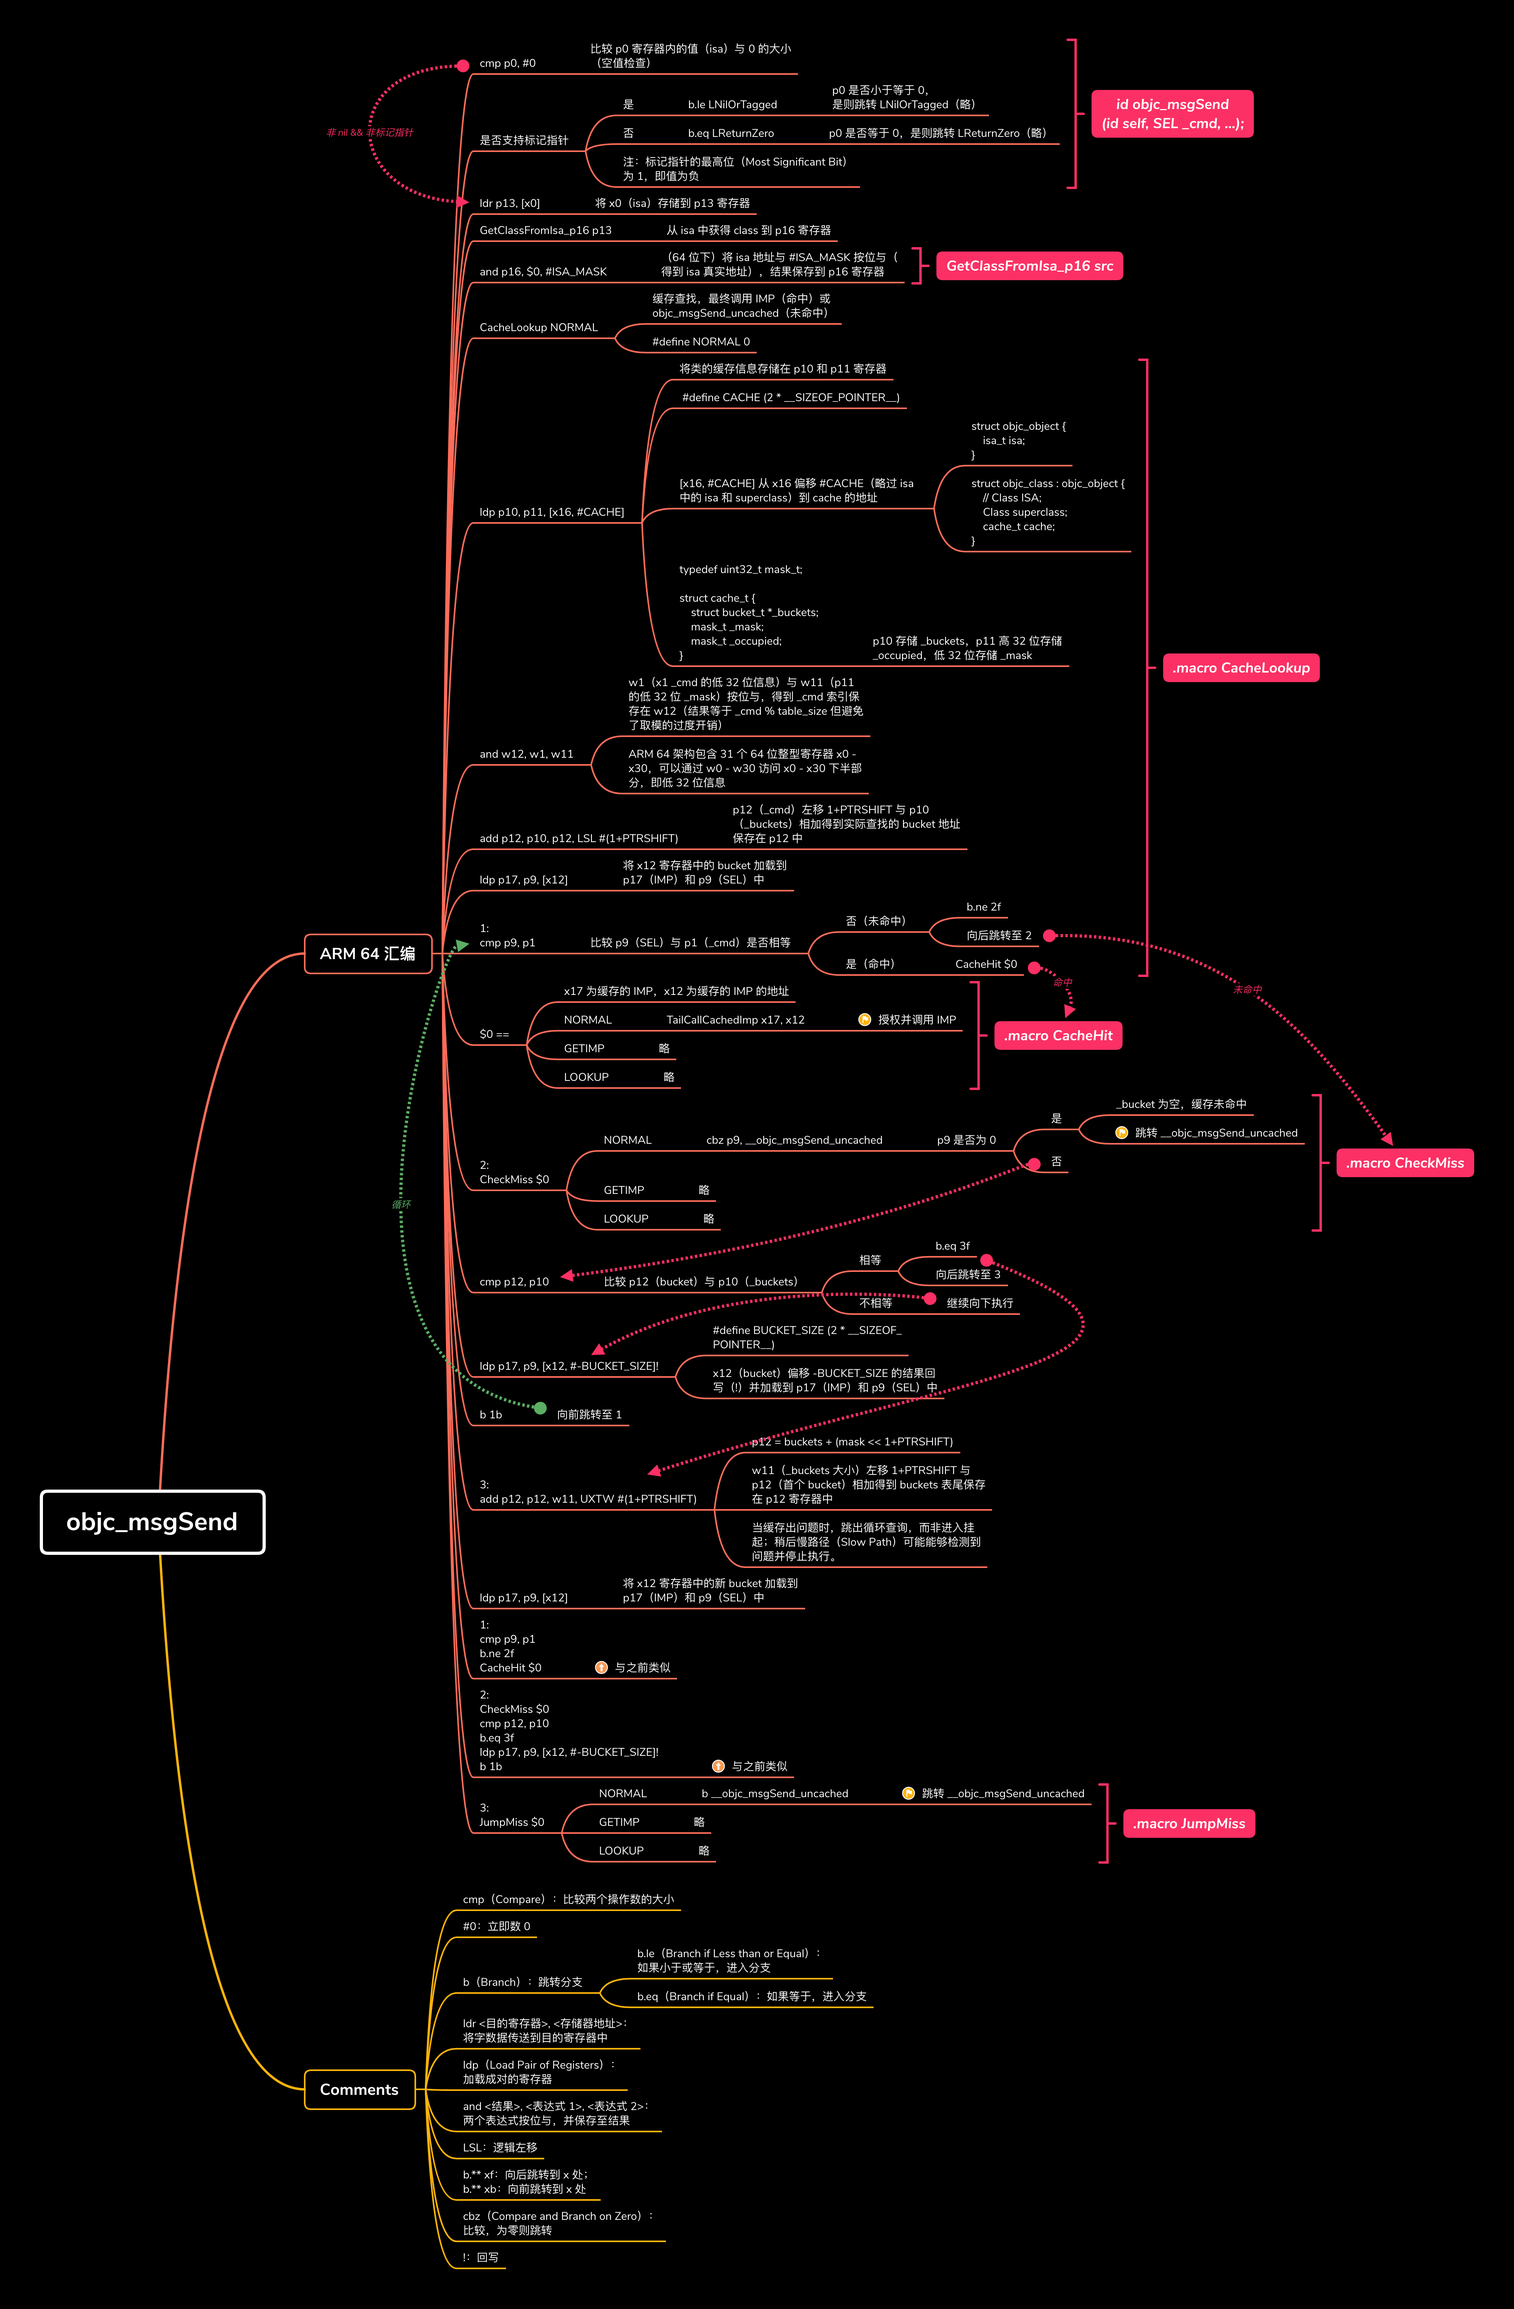
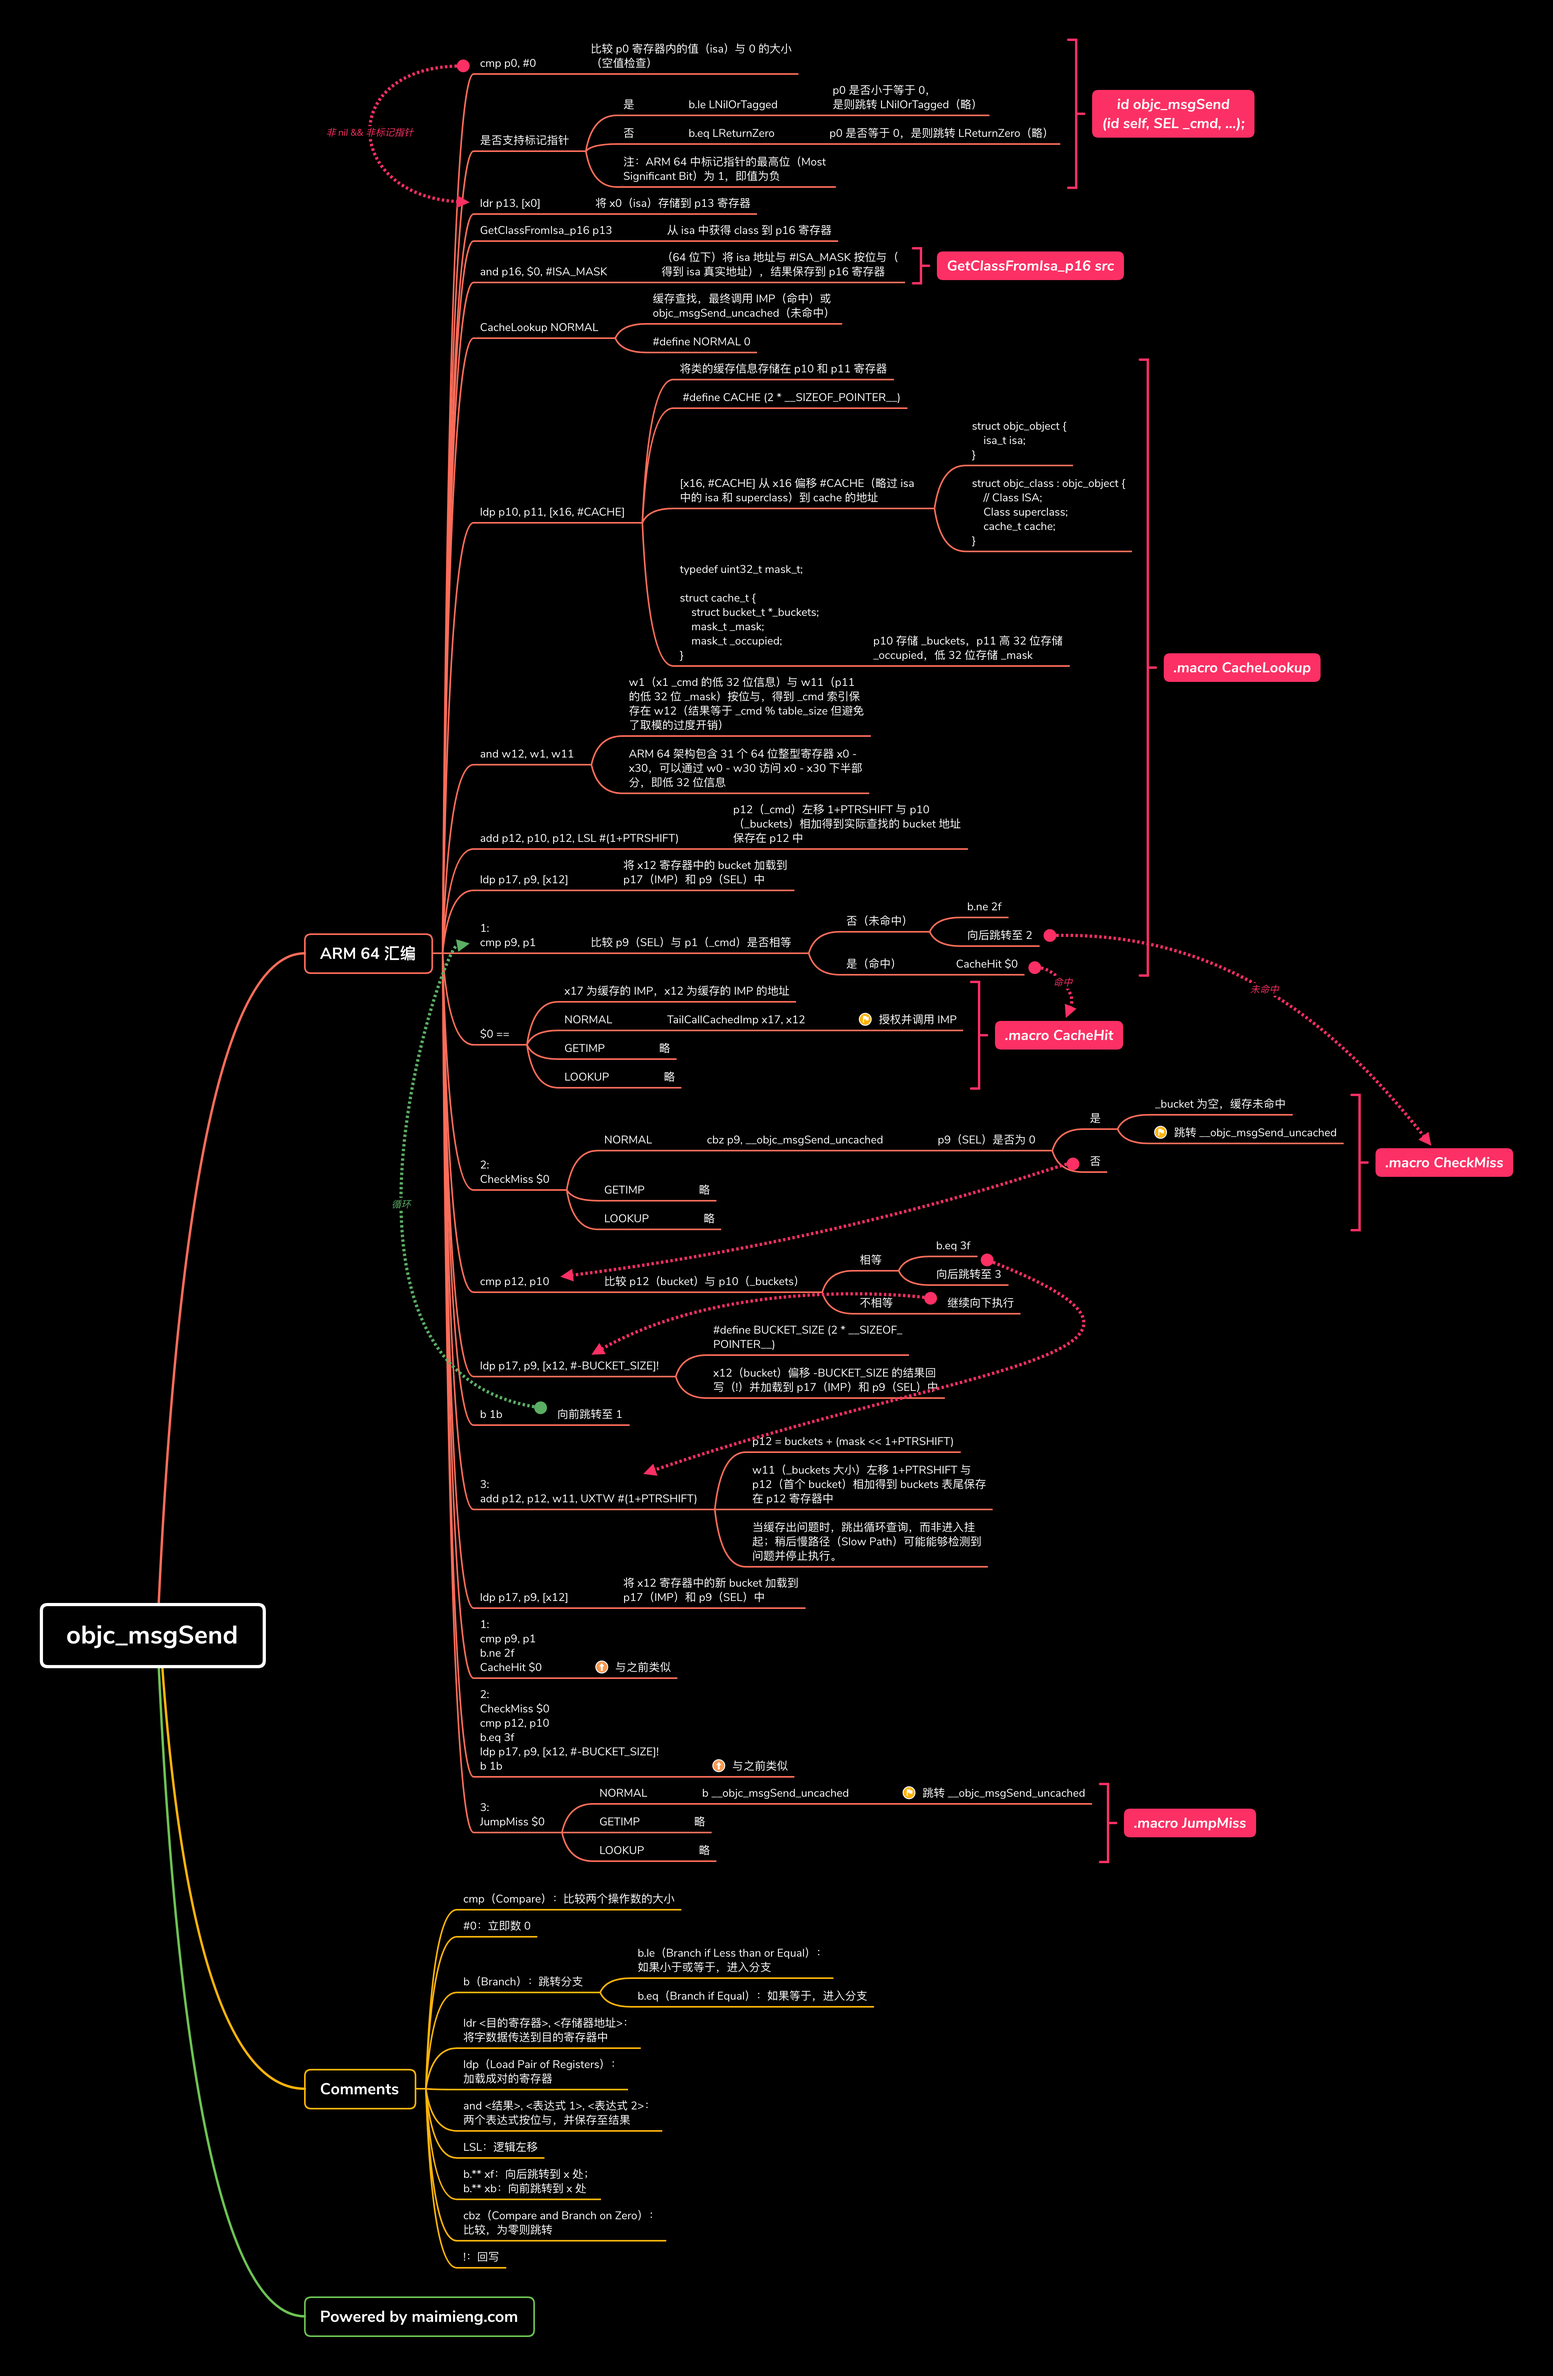
Build

diff --git a/posts/2019/objc_msgsend/index.html b/posts/2019/objc_msgsend/index.html
@@ -276,25 +276,26 @@ _objc_debug_taggedpointer_ext_classes:
 	UNWIND _objc_msgSend, NoFrame
 
     // cmp：比较两个操作数的大小；#0：立即数 0
-    // 即比较 p0 寄存器内的值与 0 的大小（空值检查）
+    // 比较 p0 寄存器内的值（isa）与 0 的大小（空值检查）
 	cmp	p0, #0			// nil check and tagged pointer check 空值检查和标记指针检查
 #if SUPPORT_TAGGED_POINTERS // 若支持标记指针
+    // ARM 64 中标记指针的最高位（Most Significant Bit）为 1，即值为负
     // b.le（Branch if Less than or Equal）：如果小于或等于，进入分支
-    // 跳转 LNilOrTagged；ARM 64 通过设置最高位 1 为标记指针，因此为负
+    // p0 是否小于等于 0，是则跳转 LNilOrTagged
 	b.le	LNilOrTagged		//  (MSB tagged pointer looks negative 标记指针最高位（Most Significant Bit）为负)
 #else // 若不支持标记指针
     // b.eq（Branch if Equal）：如果等于，进入分支
-    // 跳转 LReturnZero
+    // p0 是否等于 0，是则跳转 LReturnZero
 	b.eq	LReturnZero
 #endif
     // ldr &lt;目的寄存器&gt;, &lt;存储器地址&gt;：将字数据传送到目的寄存器中
-    // 将 x0（第一个参数 self，即 isa）存储到 p13 寄存器
+    // 将 x0（isa）存储到 p13 寄存器
 	ldr	p13, [x0]		// p13 = isa
-    // 从 isa 中获得类到 p16 ➡
+    // 从 isa 中获得 class 到 p16 寄存器 ➡
 	GetClassFromIsa_p16 p13		// p16 = class
 LGetIsaDone:
     // 缓存查找 ➡
-	CacheLookup NORMAL		// calls imp or objc_msgSend_uncached 调用 imp 或 objc_msgSend_uncached
+	CacheLookup NORMAL		// calls imp or objc_msgSend_uncached 缓存查找，最终调用 IMP（命中）或 objc_msgSend_uncached（未命中）
 
 #if SUPPORT_TAGGED_POINTERS
 LNilOrTagged:
@@ -354,7 +355,7 @@ _objc_indexed_classes:
 
 .macro GetClassFromIsa_p16 /* src */
 
-#if SUPPORT_INDEXED_ISA
+#if SUPPORT_INDEXED_ISA // 如果支持索引的 isa
 	// Indexed isa
 	mov	p16, $0			// optimistically set dst = src
 	tbz	p16, #ISA_INDEX_IS_NPI_BIT, 1f	// done if not non-pointer isa
@@ -366,9 +367,9 @@ _objc_indexed_classes:
 1:
 
 // ➡
-#elif __LP64__ // 如果 64 位
+#elif __LP64__ // 如果在 64 位下
     // and &lt;结果&gt;, &lt;表达式 1&gt;, &lt;表达式 2&gt;：两个表达式按位与，并保存至结果
-    // 将 isa 地址与 #ISA_MASK 按位与，结果保存到 p16 寄存器
+    // （64 位下）将 isa 地址与 #ISA_MASK 按位与（得到 isa 真实地址），结果保存到 p16 寄存器
 	// 64-bit packed isa
 	and	p16, $0, #ISA_MASK
 
@@ -432,7 +433,7 @@ _objc_indexed_classes:
 	cbz	p9, LGetImpMiss
 .elseif $0 == NORMAL
     // cbz（Compare and Branch on Zero）：比较，为零则跳转
-    //
+    // p9（SEL）是否为 0
 	cbz	p9, __objc_msgSend_uncached
 .elseif $0 == LOOKUP
 	cbz	p9, __objc_msgLookup_uncached
@@ -445,6 +446,7 @@ _objc_indexed_classes:
 .if $0 == GETIMP
 	b	LGetImpMiss
 .elseif $0 == NORMAL
+    // ➡ 跳转 __objc_msgSend_uncached
 	b	__objc_msgSend_uncached
 .elseif $0 == LOOKUP
 	b	__objc_msgLookup_uncached
@@ -461,49 +463,57 @@ _objc_indexed_classes:
     // [x16, #CACHE] 从 x16 偏移 #CACHE（略过 isa 中的 isa 和 superclass）
     // #define CACHE            (2 * __SIZEOF_POINTER__)
 	ldp	p10, p11, [x16, #CACHE]	// p10 = buckets, p11 = occupied|mask
-    // 可以看下方的缓存结构，p10 存储 _buckets，p11 高 32 位存储 _occupied，低 32 位存储 _mask
+    // [x16, #CACHE] 从 x16 偏移 #CACHE（略过 isa 中的 isa 和 superclass）到 cache 的地址
 #if !__LP64__ // 非 64 位，暂不考虑
 	and	w11, w11, 0xffff	// p11 = mask
 #endif
-    // w1（x1 _cmd 的低 32 位信息）与 w11（p11 的低 32 位 _mask）按位与，得到 _cmd 索引保存在 w12（类似 _cmd % table_size 但避免了过度开销）
+    // w1（x1 _cmd 的低 32 位信息）与 w11（p11 的低 32 位 _mask）按位与，得到 _cmd 索引保存在 w12（结果等于 _cmd % table_size 但避免了取模的过度开销）
     // ARM 64 架构包含 31 个 64 位整型寄存器 x0 - x30，可以通过 w0 - w30 访问 x0 - x30 下半部分，即低 32 位信息
 	and	w12, w1, w11		// x12 = _cmd &amp; mask
     // add：加法指令；LSL：逻辑左移
-    // p12（_cmd）左移与 p10（_buckets）相加得到第一个要查找的 bucket 地址保存在 p12 中
+    // p12（_cmd）左移 1+PTRSHIFT 与 p10（_buckets）相加得到实际查找的 bucket 地址保存在 p12 中
 	add	p12, p10, p12, LSL #(1+PTRSHIFT)
 		             // p12 = buckets + ((_cmd &amp; mask) &lt;&lt; (1+PTRSHIFT))
 
-    // 将 x12 寄存器中的 _bucket 加载到 p17（IMP）和 p9（SEL）中（可参照下方 bucket_t 结构）
+    // 将 x12 寄存器中的 bucket 加载到 p17（IMP）和 p9（SEL）中
 	ldp	p17, p9, [x12]		// {imp, sel} = *bucket
     // 比较 p9（SEL）与 p1（_cmd）是否相等
 1:	cmp	p9, p1			// if (bucket-&gt;sel != _cmd)
-    // 如果不相等，向后跳转到 2 处
+    // 否（未命中），向后跳转到 2
 	b.ne	2f			//     scan more
-    // 缓存命中，调用或返回 imp，将参数透穿 ➡
+    // 是（命中），调用或返回 imp，将参数透穿 ➡
 	CacheHit $0			// call or return imp
 
     // 未命中：p12 为未命中 bucket
 2:	// not hit: p12 = not-hit bucket
     // ➡
 	CheckMiss $0			// miss if bucket-&gt;sel == 0
+    // 比较 p12（bucket）与 p10（_buckets）
 	cmp	p12, p10		// wrap if bucket == buckets
 	b.eq	3f
+    // x12（bucket）偏移 -BUCKET_SIZE 的结果回写（!）并加载到 p17（IMP）和 p9（SEL）中
 	ldp	p17, p9, [x12, #-BUCKET_SIZE]!	// {imp, sel} = *--bucket
+    // 向前跳转至 1
 	b	1b			// loop
 
 3:	// wrap: p12 = first bucket, w11 = mask
+    // w11（_buckets 大小）左移 1+PTRSHIFT 与 p12（首个 bucket）相加得到 buckets 表尾保存在 p12 寄存器中
 	add	p12, p12, w11, UXTW #(1+PTRSHIFT)
 		                        // p12 = buckets + (mask &lt;&lt; 1+PTRSHIFT)
 
 	// Clone scanning loop to miss instead of hang when cache is corrupt.
 	// The slow path may detect any corruption and halt later.
+    // 当缓存出问题时，跳出循环查询，而非进入挂起；稍后慢路径（Slow Path）可能能够检测到问题并停止执行。
 
+    // 将 x12 寄存器中的新 bucket 加载到 p17（IMP）和 p9（SEL）中
 	ldp	p17, p9, [x12]		// {imp, sel} = *bucket
+    // 下面与之前类似
 1:	cmp	p9, p1			// if (bucket-&gt;sel != _cmd)
 	b.ne	2f			//     scan more
 	CacheHit $0			// call or return imp
 
 2:	// not hit: p12 = not-hit bucket
+    // 下面与之前类似
 	CheckMiss $0			// miss if bucket-&gt;sel == 0
 	cmp	p12, p10		// wrap if bucket == buckets
 	b.eq	3f
@@ -511,12 +521,13 @@ _objc_indexed_classes:
 	b	1b			// loop
 
 3:	// double wrap
+    // ➡
 	JumpMiss $0
 
 .endmacro
-
-
 </code></pre>
+
+<p>在理解上面汇编代码的同时，需要了解 Obj-C 中对象内部的 <code>cache_t</code> 即缓存的内部结构：</p>
 
 <pre><code class="language-cpp">// objc-runtime-new.h
 #if __LP64__
@@ -573,6 +584,8 @@ public:
     void set(cache_key_t newKey, IMP newImp);
 };
 </code></pre>
+
+<p>由于代码的跳转很难直接在代码中标注，我将其核心流程抽象为下图，由于原图较大，可根据需要方法来看：</p>
 
 <p><img src="/img/2019/objc_msgsend/2.png" alt="2" /></p>
 
